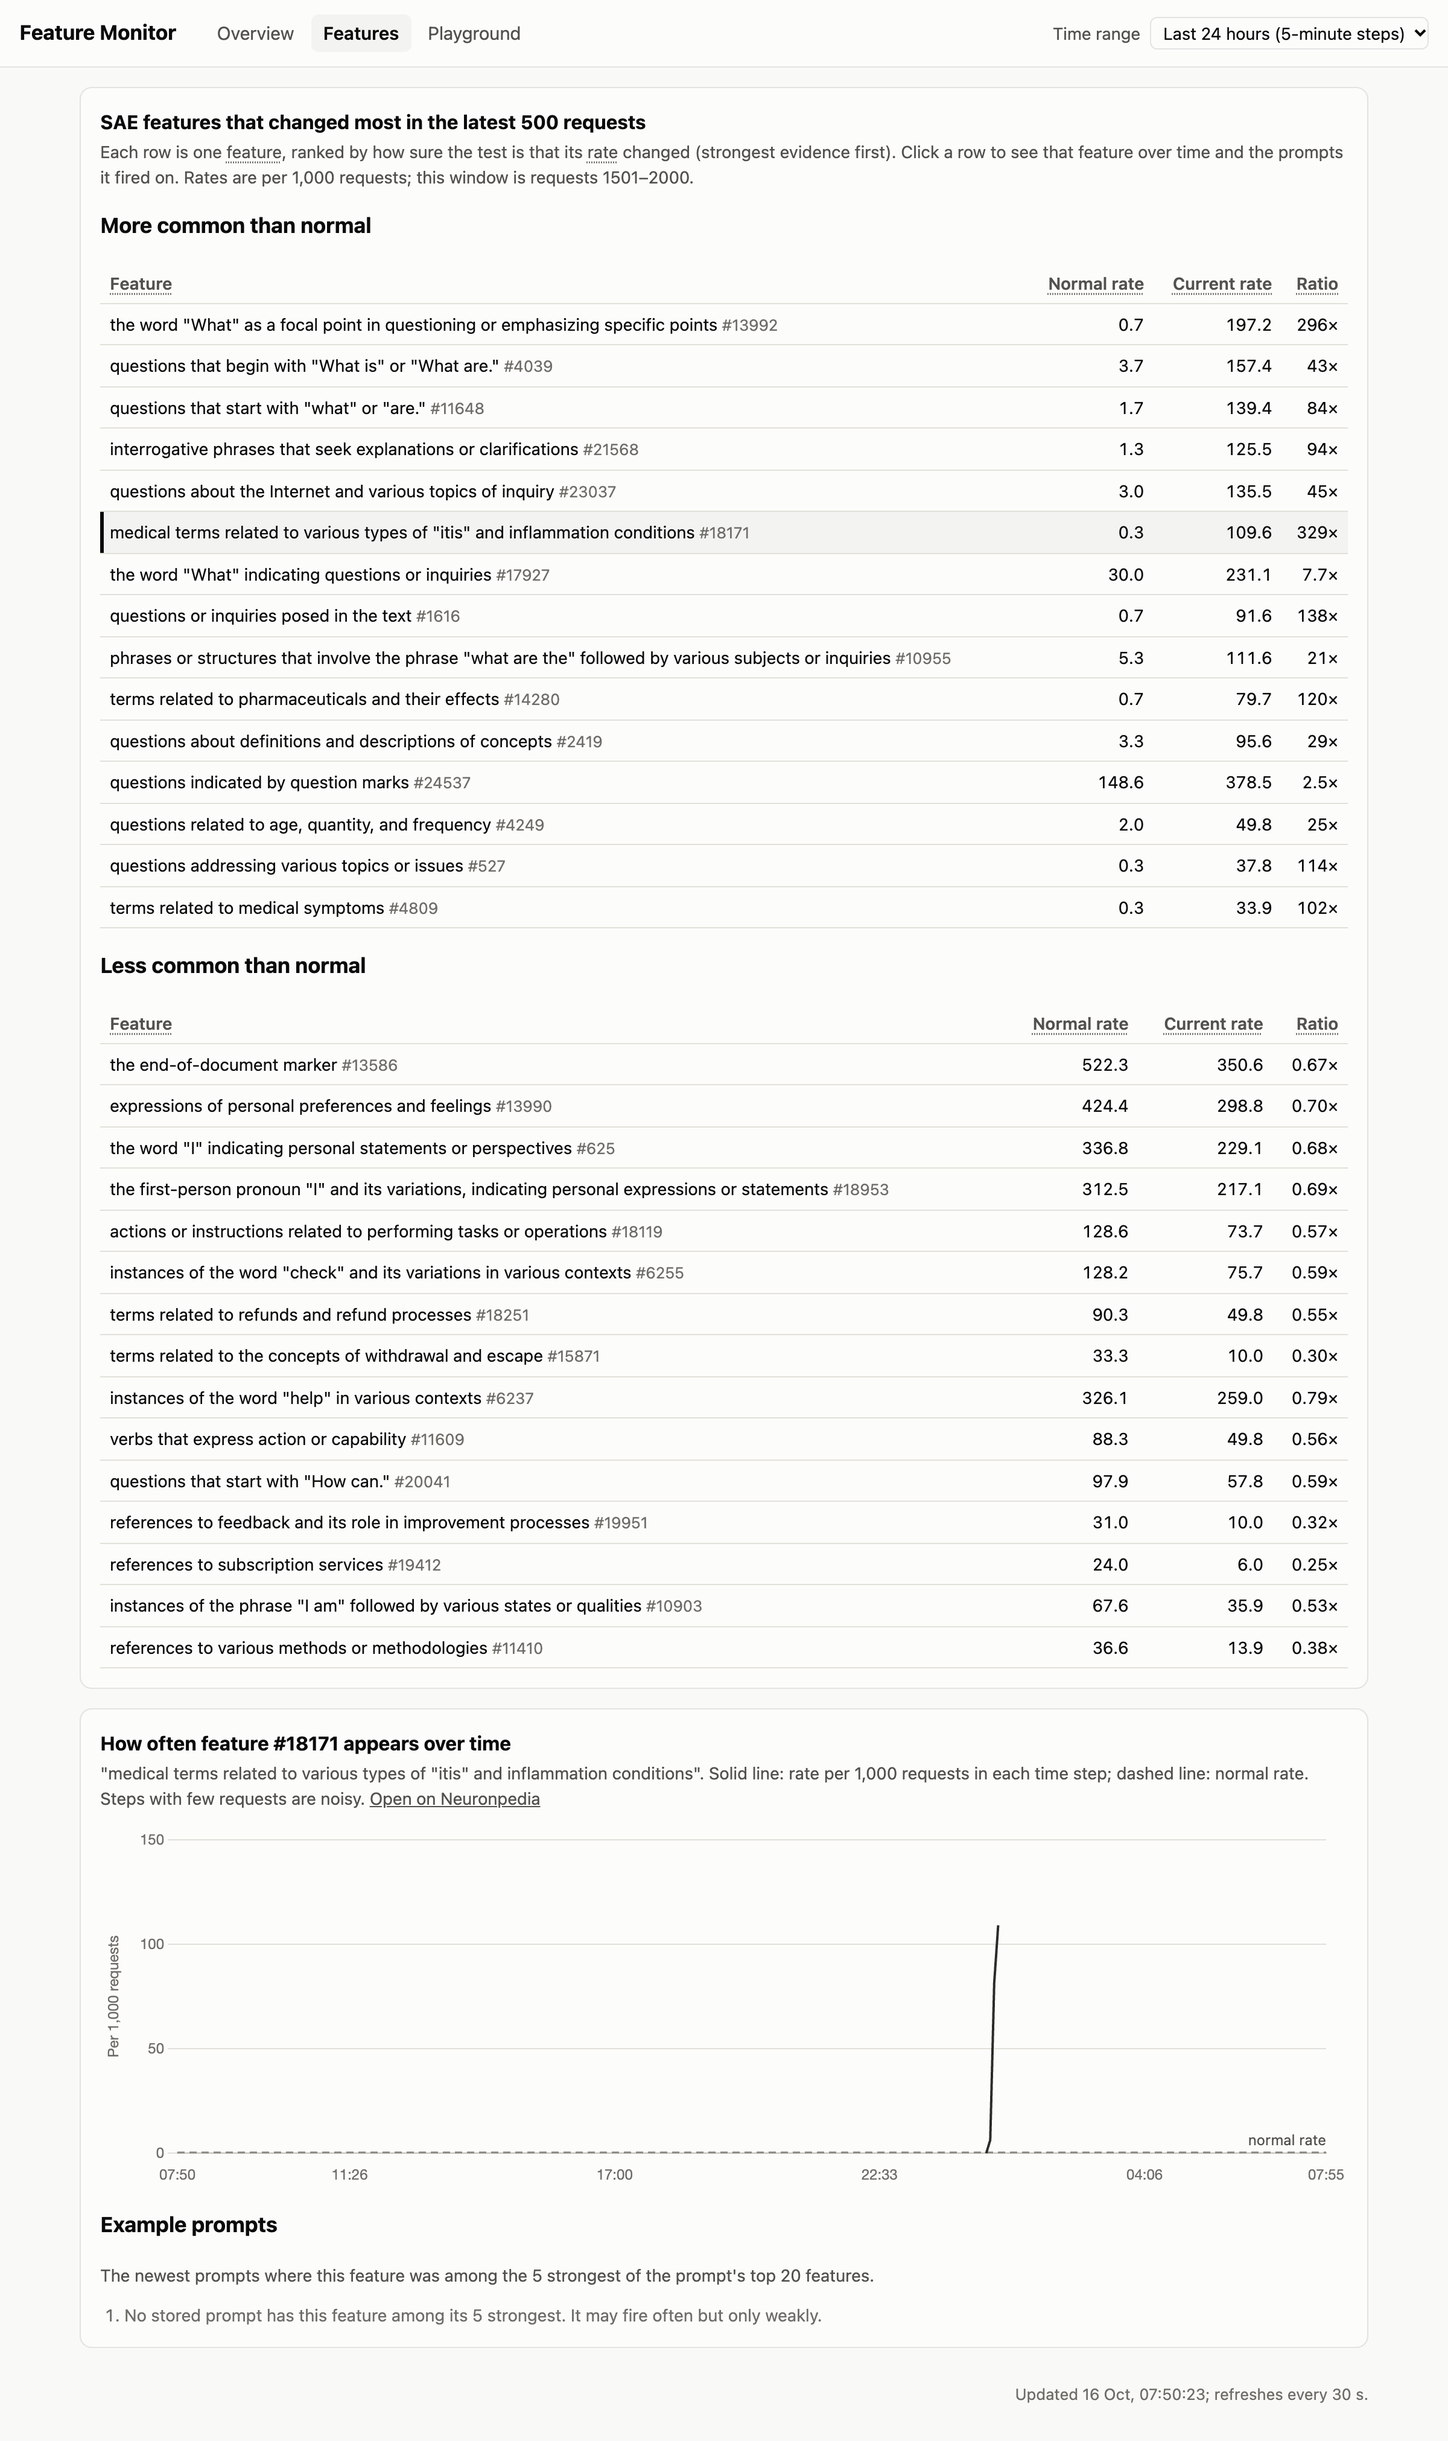
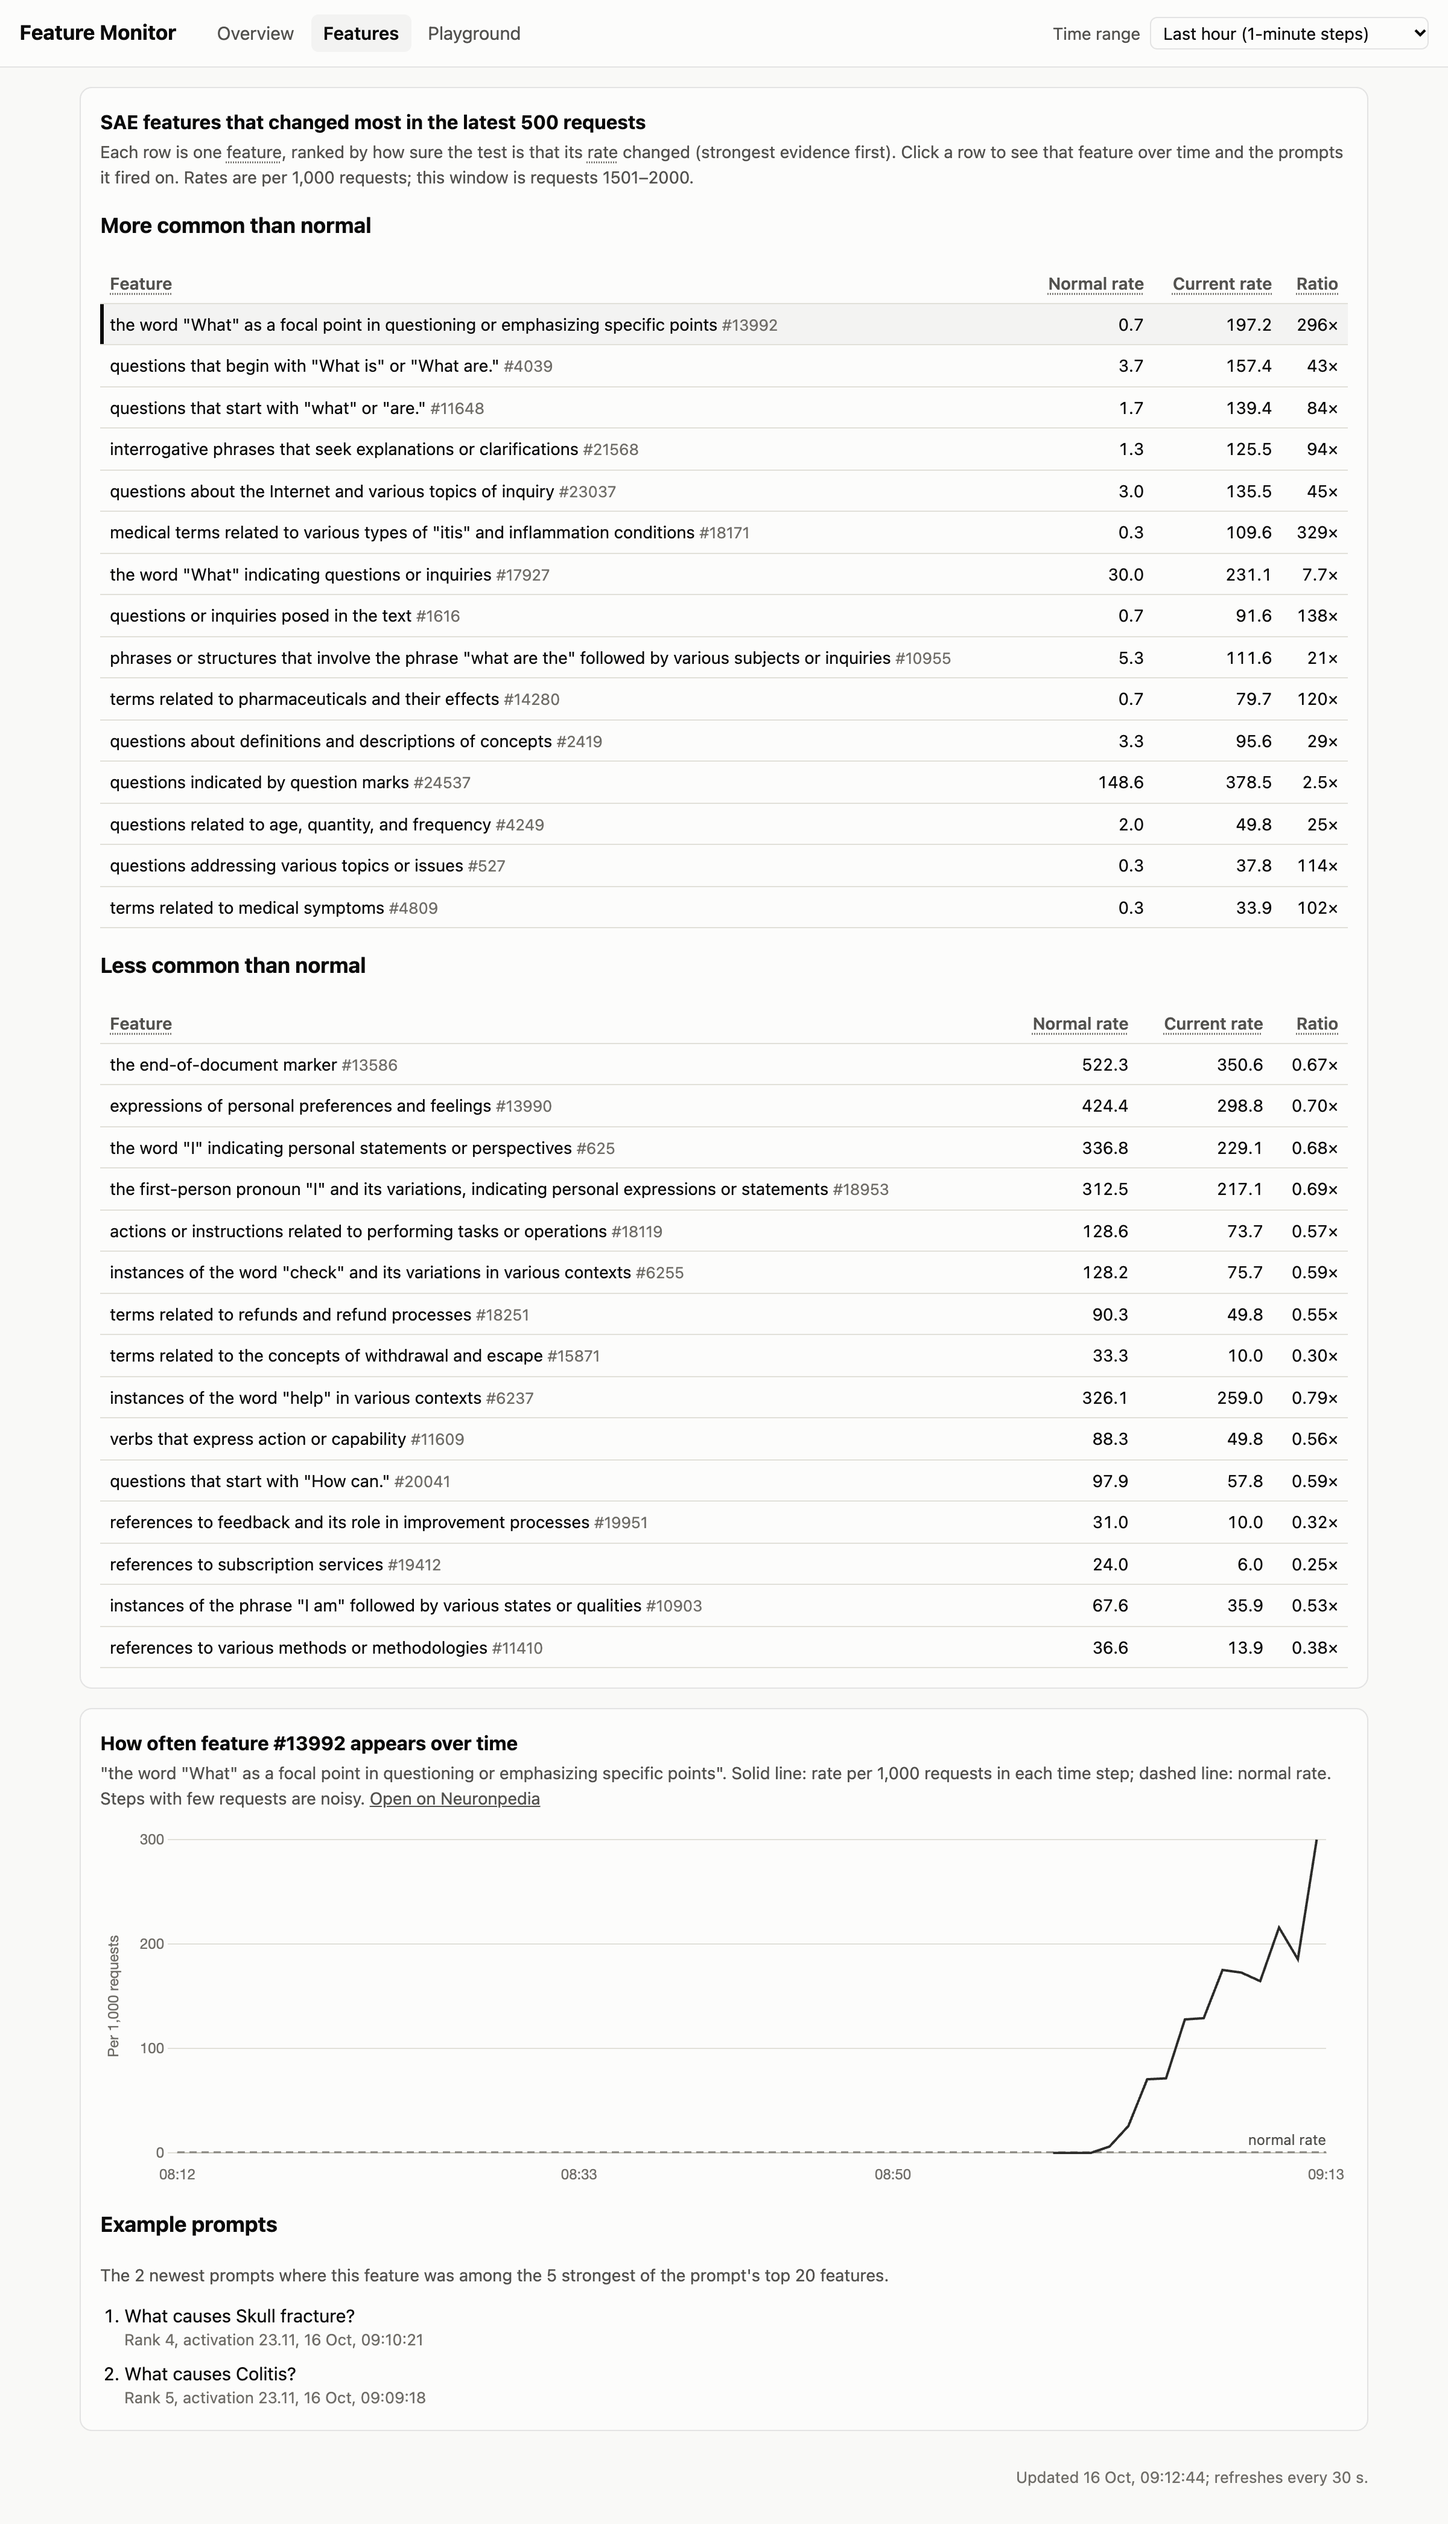
Plot drift scores relative to each detector's threshold
- overview: score divided by threshold, one dashed alarm line at 1,
  raw score and threshold in the tooltip; chart text and "How to read
  this" updated, including that only the crossing time is comparable
- README screenshots retaken from a fresh medical_ramp run with the
  mean-distance embedding detector, on the 1-hour range
- README captions and log updated (/sync-docs)

diff --git a/frontend/overview.js b/frontend/overview.js
@@ -1,4 +1,6 @@
-// Overview page: drift scores with thresholds, request volume, and alerts in the chosen range.
+// Overview page: drift scores relative to their thresholds, request volume, and alerts in range.
+// Each detector's score is divided by its own threshold, so 1 is the alarm level for every line:
+// the detectors' raw scores differ about twentyfold and would not share one axis readably.
 
 const SERIES_VAR = { sae: "--series-1", embedding_mean: "--series-2", embedding: "--series-2" };
 const ALERT_TOP = 3;
@@ -22,7 +24,11 @@ function scoreDatasets(timeline, bucketMs, xMin, xMax) {
     const color = cssVar(SERIES_VAR[kind] ?? "--series-2");
     const points = timeline.buckets
       .filter((b) => b[kind].score !== null)
-      .map((b) => ({ x: parseTime(b.start) + bucketMs / 2, y: b[kind].score, ...b[kind] }));
+      .map((b) => ({
+        x: parseTime(b.start) + bucketMs / 2,
+        y: b[kind].score / b[kind].threshold,
+        ...b[kind],
+      }));
     if (!points.length) continue;
     // Gaps of a few steps (a late check) are bridged; longer ones (no traffic) break the line.
     datasets.push({
@@ -37,19 +43,20 @@ function scoreDatasets(timeline, bucketMs, xMin, xMax) {
       pointBackgroundColor: (ctx) => (ctx.raw?.alert ? accent : color),
       pointBorderColor: (ctx) => (ctx.raw?.alert ? accent : color),
     });
-    // The threshold as a dashed step line, held flat to both edges of the chart.
-    const steps = points.map((p) => ({ x: p.x, y: p.threshold }));
-    steps.unshift({ x: xMin, y: steps[0].y });
-    steps.push({ x: xMax, y: steps[steps.length - 1].y });
+  }
+  if (datasets.length) {
+    // One alarm level for every detector: score equal to its own threshold.
     datasets.push({
-      label: `${detectorName(kind)} threshold`,
+      label: "Alarm level",
+      endLabel: "alarm level",
       isThreshold: true,
-      data: steps,
-      borderColor: color,
+      data: [
+        { x: xMin, y: 1 },
+        { x: xMax, y: 1 },
+      ],
+      borderColor: cssVar("--ink-2"),
       borderWidth: 1.5,
       borderDash: [6, 4],
-      stepped: "after",
-      spanGaps: true,
       pointRadius: 0,
       pointHoverRadius: 0,
     });
@@ -66,13 +73,15 @@ function drawScores(timeline, bucketMs, xMin, xMax) {
       ? ""
       : "No drift checks in this time range yet. Checks start once 500 requests have arrived."
   );
-  const options = baseOptions(xMin, xMax, "Drift score");
-  options.scales.y.ticks.callback = (value) => fmtNum(value, 3);
+  const options = baseOptions(xMin, xMax, "Score ÷ threshold");
+  options.scales.y.ticks.callback = (value) => fmtNum(value, 1);
+  // Keep the alarm level in view even when every score is far below it.
+  options.scales.y.suggestedMax = 1.2;
   options.plugins.tooltip.filter = (item) => !item.dataset.isThreshold;
   options.plugins.tooltip.callbacks.label = (item) => {
     const p = item.raw;
     const verdict = p.alert ? " (above threshold: alert)" : "";
-    return `${item.dataset.label}: ${fmtNum(p.score, 4)}, threshold ${fmtNum(p.threshold, 4)}${verdict}`;
+    return `${item.dataset.label}: ${fmtNum(p.y, 2)}× threshold (score ${fmtNum(p.score, 4)}, threshold ${fmtNum(p.threshold, 4)})${verdict}`;
   };
   options.layout = { padding: { right: 8, top: 12 } };
   scoreChart = drawChart(scoreChart, document.getElementById("scores"), {

diff --git a/frontend/index.html b/frontend/index.html
@@ -20,21 +20,21 @@
       <aside class="card howto" aria-labelledby="howto-title">
         <h2 id="howto-title">How to read this</h2>
         <ol>
-          <li>Each solid line is a drift score: how different the latest 500 requests look from normal traffic.</li>
-          <li>The dashed line is that detector's alarm level; a red point is a check that crossed it.</li>
-          <li>Compare each line only with its own dashed line; the two detectors use different scales.</li>
+          <li>Each solid line is a detector's drift score (how unlike normal traffic the latest 500 requests look), divided by its alarm level.</li>
+          <li>Above the dashed line at 1 means an alert; red points mark those checks.</li>
+          <li>Both lines share this scale, so you can see which detector crossed first.</li>
           <li>An alert means "traffic changed", not "something is wrong": open Features to see what changed.</li>
         </ol>
       </aside>
 
       <section class="card">
-        <h2>Drift score over time, per detector</h2>
+        <h2>Drift score over time, per detector, relative to its alarm level</h2>
         <p class="sub">
-          Higher means the latest 500 requests look less like normal traffic. Solid line:
-          <span data-term="drift">drift score</span>. Dashed line: that detector's
-          <span data-term="threshold">threshold</span>. Red points: checks that raised an alert.
-          The two detectors measure different things, so compare each line with its own dashed
-          line, not with each other.
+          Higher means the latest 500 requests look less like normal traffic. Each line is that
+          detector's <span data-term="drift">drift score</span> divided by its own
+          <span data-term="threshold">threshold</span>, so the dashed line at 1 is the alarm level
+          for both. Red points: checks that raised an alert. When a line crosses 1 is comparable
+          between detectors; how far above 1 it goes is not. Hover a point for the raw score.
         </p>
         <p class="sub">
           <strong>SAE features</strong> (darker line): <span id="help-sae"></span><br />

diff --git a/docs/log.md b/docs/log.md
@@ -303,3 +303,8 @@ Still open: variants were chosen after seeing results; other embedding models, a
 Switched the live embedding detector to mean-embedding distance (kind `embedding_mean`): `monitor/embed_mean.py` saves the baseline mean of the 3,000 baseline embeddings and a threshold of 0.00287275, identical to the offline value. The 50 clusters now only explain alerts. `Detector` takes an optional `score`; a `WindowEmbedder` embeds each request once, so a check embeds only new requests instead of all 500. The frontend names the new kind and keeps a label for old `embedding` rows. Checked live: 510 normal requests on a fresh database gave one check per detector (SAE 0.056345, embedding_mean 0.001589, no alert), both equal to an offline calculation on the same 500 prompts to 6 decimals. 204 tests pass.
 Surprise: the new threshold's false-alarm rate on random normal_test windows is 1.8%, against 1.0% for 50 clusters and 0.6% for SAE; mean distance is the noisier detector at the same percentile rule (as in the replay). And on the overview chart the new score (threshold 0.0029) is about 20 times smaller than SAE's (0.0595), so its line is flattened against zero on the shared axis.
 Still open: fix the overview chart's scales (proposal: plot score ÷ threshold). The stored-score API is unchanged, so old databases still display.
+
+## 2026-10-16
+The overview's drift chart now plots each detector's score divided by its own threshold, with one dashed alarm line at 1; tooltips keep the raw score and threshold, and "How to read this" changed to match (still 4 lines). With mean distance the raw scores differ about twentyfold, so the shared raw axis flattened the embedding line. Fresh medical_ramp run with the new detector (seed 42, 2,000 requests, `data/dashboard_check/medical_ramp_mean.db`, not committed): 11 checks per detector, first alerts at request 780 (SAE) and 1061 (embedding_mean), 10 and 8 checks above threshold. Retook the overview and features README screenshots on the 1-hour range. 204 tests pass.
+Surprise: once both are above 1, the embedding line climbs to 12× its threshold while SAE reaches 3×, which reads as "embeddings react more strongly". The ratio says how far past its own alarm level each detector is, not how sensitive it is; only the crossing time compares. The chart text now says so. The SAE features and rates match the 5.2 run exactly (same prompts, same seed).
+Still open: the 12× vs 3× gap is still likely to be misread; a log scale or capping the axis are options if it confuses users.

diff --git a/README.md b/README.md
@@ -39,22 +39,22 @@ Wait for `Uvicorn running on http://127.0.0.1:8000` (loading GPT-2 and the SAE t
 To look at a saved scenario run instead of live traffic, point the app at that run's database:
 
 ```sh
-FEATURE_MONITOR_DB=data/dashboard_check/medical_ramp_5_2.db uv run uvicorn backend.app:app --port 8000
+FEATURE_MONITOR_DB=data/dashboard_check/medical_ramp_mean.db uv run uvicorn backend.app:app --port 8000
 ```
 
 The charts show time up to now, so for a run from earlier in the day set **Time range** to **Last 24 hours**. "address already in use" means another copy of the server is already running on port 8000; stop that one first.
 
 ### What it looks like
 
-These screenshots come from one saved `medical_ramp` run (2,000 requests, about 14 minutes, medical questions ramped into normal traffic), not from live traffic. On the 24-hour view the run is a narrow spike.
+These screenshots come from one `medical_ramp` run (seed 42; 2,000 requests in about 14 minutes, medical questions ramped into normal traffic), not from live traffic, viewed on the 1-hour range.
 
-The overview: both drift scores rise past their thresholds (dashed lines), and every red point is an alert.
+The overview: each detector's drift score divided by its own threshold, so the dashed line at 1 is the alarm level for both. In this run the SAE detector first alerted at request 780 and the embedding detector at request 1061. How far a line rises above 1 is not comparable between detectors.
 
 ![Overview with drift alerts](docs/images/overview-alert.png)
 
-The Features page: SAE features that became more and less common in the latest 500 requests, and the rate over time of #18171 (inflammation terms). Most of the top rising features are about question wording ("What is…"), not medicine, because the medical prompts are templated. Its example-prompt list is empty because it never ranks in a prompt's 5 strongest features.
+The Features page: SAE features that became more and less common in the latest 500 requests, and the rate over time of the top one, #13992 ("What" questions). Most of the top rising features are about question wording, not medicine, because the medical prompts are templated; medical features such as #18171 (inflammation terms) rank lower.
 
-![Features page with feature 18171 selected](docs/images/features-drift.png)
+![Features page with feature 13992 selected](docs/images/features-drift.png)
 
 The Playground: the top 20 features for one prompt, typed by hand and not stored.
 
